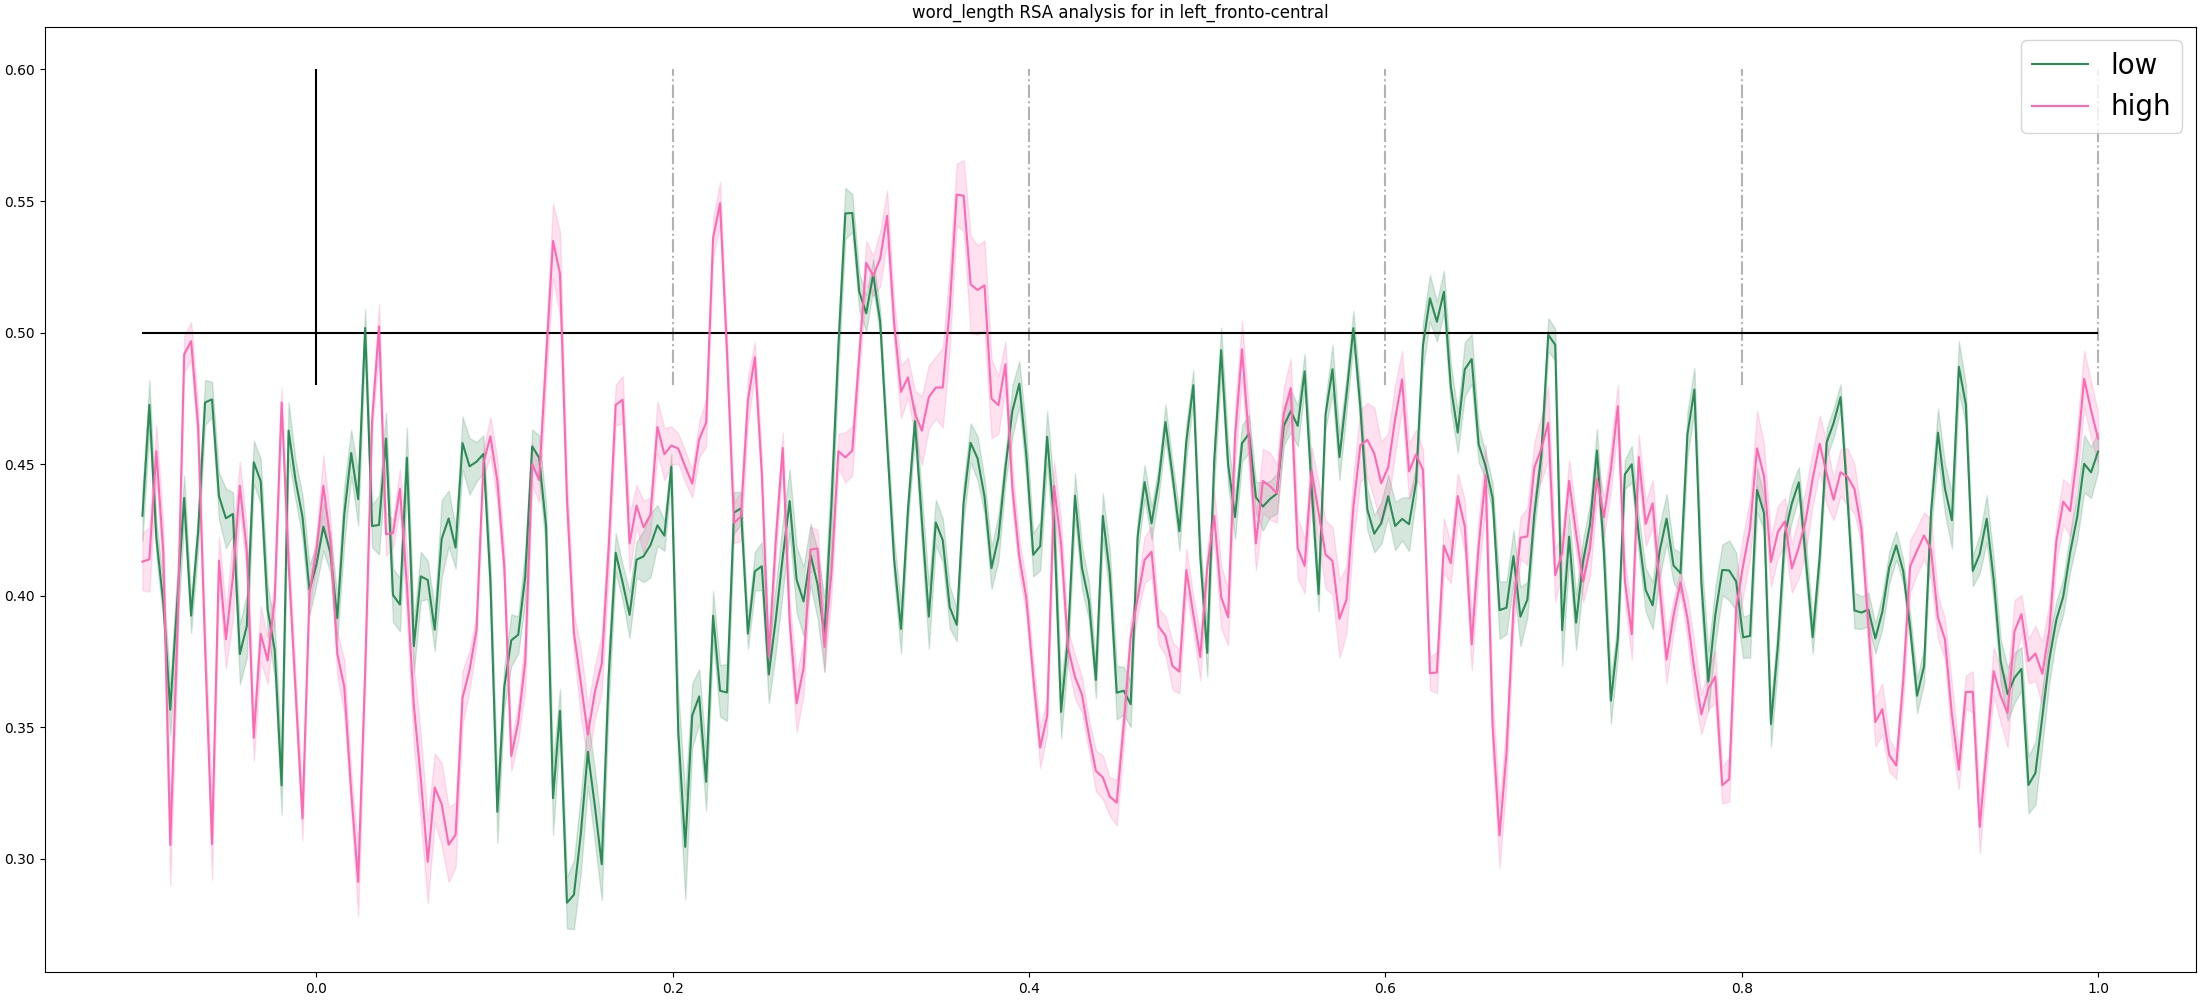
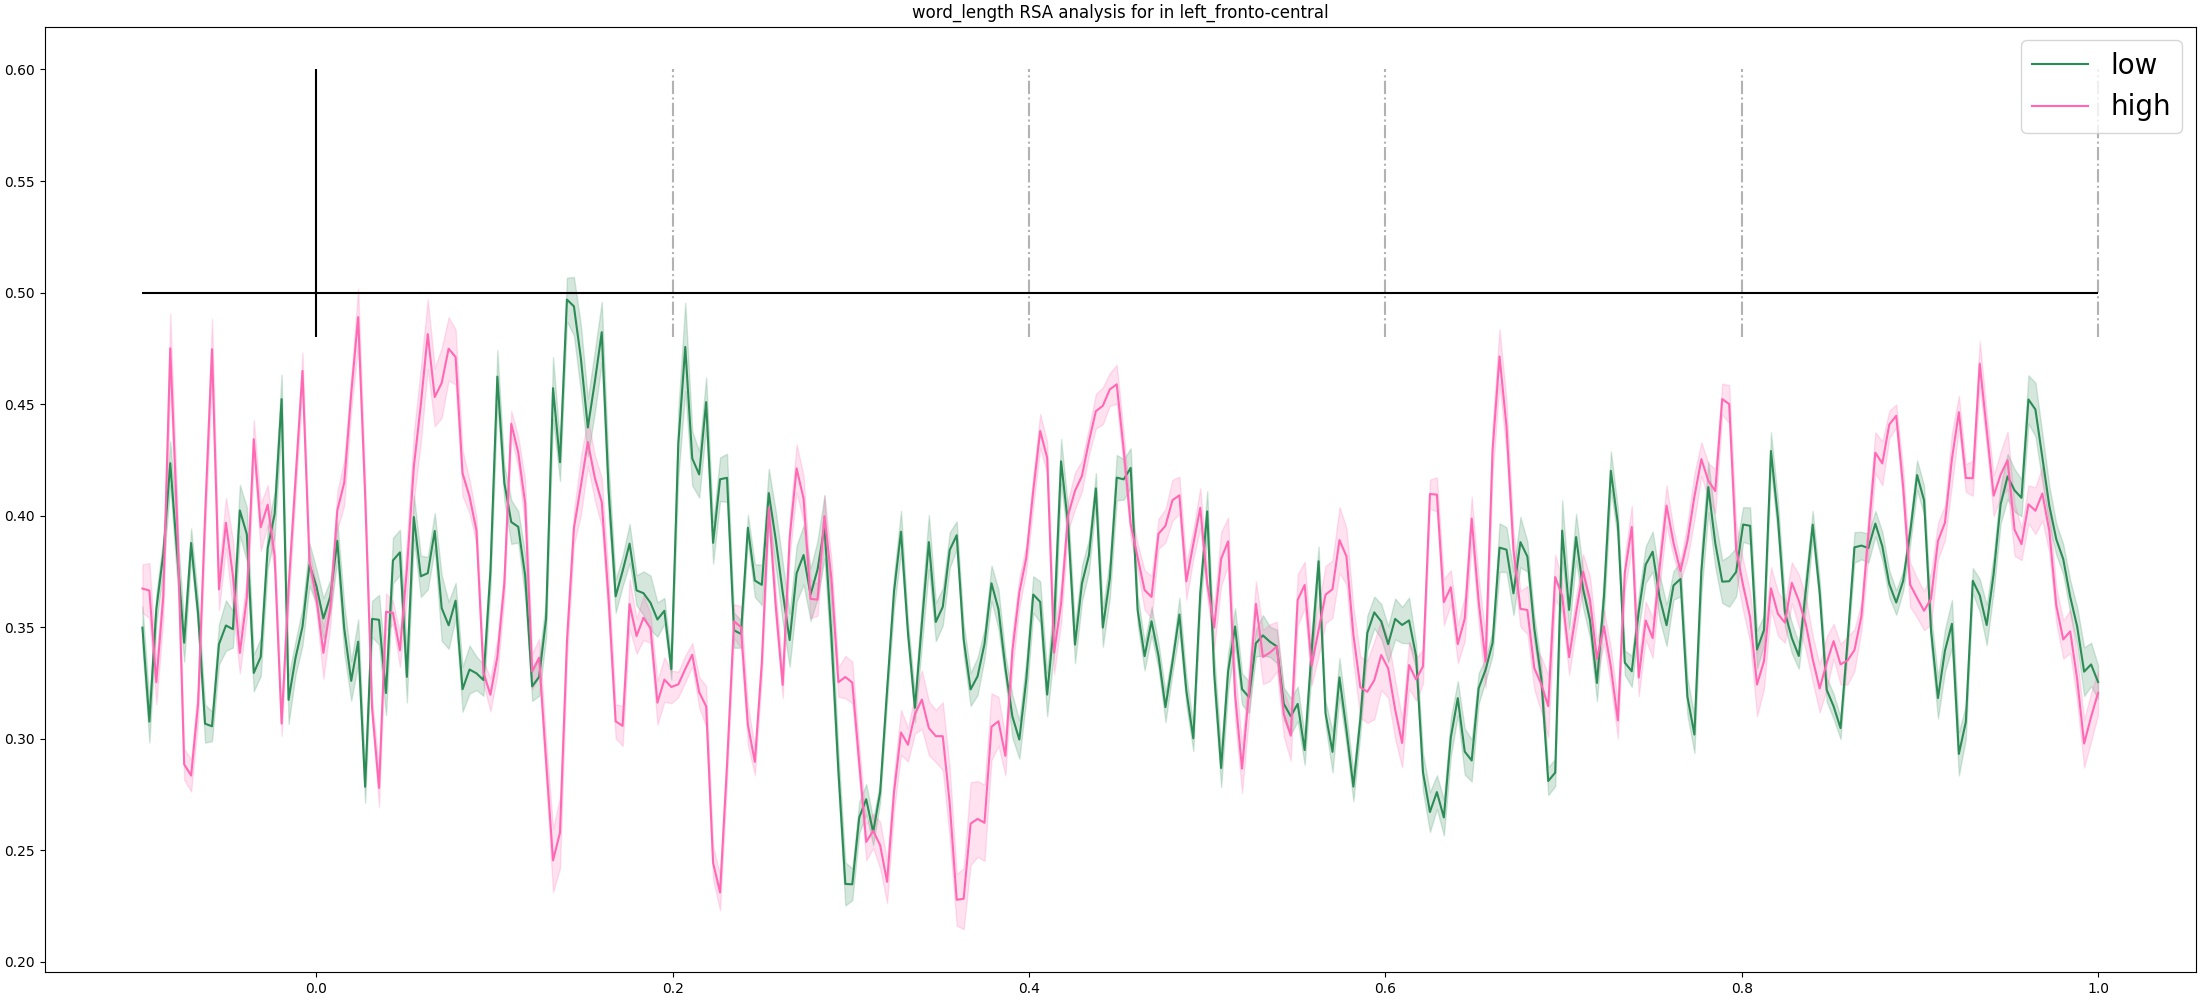
new plots

Changed region(s): [[0.0618, 0.155, 0.9582, 0.93], [0.0, 0.837, 0.0309, 0.868], [0.0, 0.713, 0.0309, 0.744]]

diff --git a/04_rsa_simple.py b/04_rsa_simple.py
@@ -90,6 +90,15 @@ def one_two_norm(vectors):
     vectors = {n : l for n, l in zip(names, norm_labels)}
     return vectors
 
+def invert_and_norm_one_two(vectors):
+    labels = [k[1] for k in vectors]
+    names = [k[0] for k in vectors]
+    norm_labels = [2-((x-min(labels))/(max(labels)-min(labels))) for x in labels]
+    assert min(norm_labels) == 1
+    assert max(norm_labels) == 2
+    vectors = {n : l for n, l in zip(names, norm_labels)}
+    return vectors
+
 def zero_one_norm(vectors):
     labels = [k[1] for k in vectors]
     names = [k[0] for k in vectors]
@@ -177,18 +186,18 @@ all_combs = [tuple(sorted(v)) for v in itertools.combinations(norms[h].keys(), r
 for norm_type in ['word_length', 'semantic_category', 'concreteness', 'aoa']:
     distances[norm_type] = dict()
     for w_one, w_two in all_combs:
-        distances[norm_type][(w_one, w_two)] = -abs(norms[norm_type][w_one] - norms[norm_type][w_two])
+        distances[norm_type][(w_one, w_two)] = abs(norms[norm_type][w_one] - norms[norm_type][w_two])
 ### perceptual
 senses = ['vision', 'smell', 'taste', 'hearing', 'touch']
 distances['perceptual'] = dict()
 for w_one, w_two in all_combs:
     vec_one = [norms[s][w_one] for s in senses]
     vec_two = [norms[s][w_two] for s in senses]
-    distances['perceptual'][(w_one, w_two)] = scipy.stats.pearsonr(vec_one, vec_two)[0]
+    distances['perceptual'][(w_one, w_two)] = 1 - scipy.stats.pearsonr(vec_one, vec_two)[0]
 ### levenshtein
 distances['levenshtein'] = dict()
 for w_one, w_two in all_combs:
-    distances['levenshtein'][(w_one, w_two)] = -levenshtein(w_one, w_two)
+    distances['levenshtein'][(w_one, w_two)] = levenshtein(w_one, w_two)
 
 ### scaling in 0 to +1
 #for h, h_scores in distances.items():
@@ -199,12 +208,18 @@ for w_one, w_two in all_combs:
 ### turning distances into similarities
 #similarities = {h : {k : 1-val for k, val in v.items()} for h, v in distances.items()}
 
+## turning distances into similarities
+## in a scale from 1 to 2
+similarities = dict()
+for h, h_scores in distances.items():
+    similarities[h] = invert_and_norm_one_two(h_scores.items())
+
 general_folder = 'rsa_plots'
 
 for model in [
+              'perceptual',
               'word_length', 
               'semantic_category', 
-              'perceptual',
               'levenshtein',
               'concreteness',
               'aoa',
